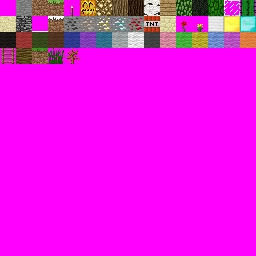
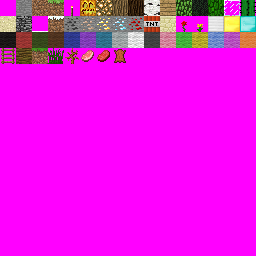
Added porkchops, beef, and leather for when the corresponding mob type is killed (and wool is added to inventory when sheep is killed)

Changed region(s): [[0.3125, 0.1875, 0.5, 0.25]]

diff --git a/MineDS/source/mobs/cowMob.cpp b/MineDS/source/mobs/cowMob.cpp
@@ -10,6 +10,7 @@
 #include "../message.h"
 #include "../sounds.h"
 #include "../collision.h"
+#include "../inventory.h"
 Graphic cowMobGraphic[2];
 
 cowMob::cowMob()
@@ -176,6 +177,11 @@ void cowMob::hurt(int amount,int type)
 	playSound(COW_H);
 	if (type == PLAYER_HURT)
 		scared = true;
+	if (health<=0 && type == PLAYER_HURT)
+	{
+		addInventory(BEEF_RAW,rand()%4);
+		addInventory(LEATHER,rand()%3);
+	}
 	animation=1;
 	animationclearframes=20;
 }

diff --git a/MineDS/source/mobs/sheepMob.cpp b/MineDS/source/mobs/sheepMob.cpp
@@ -10,6 +10,7 @@
 #include "../message.h"
 #include "../sounds.h"
 #include "../collision.h"
+#include "../inventory.h"
 Graphic sheepMobGraphic[2];
 
 sheepMob::sheepMob()
@@ -176,6 +177,10 @@ void sheepMob::hurt(int amount,int type)
 	playSound(SHEEP_H);
 	if (type == PLAYER_HURT)
 		scared = true;
+	if (health<=0 && type == PLAYER_HURT)
+	{
+		addInventory(WHITE_WOOL,rand()%4);
+	}
 	animation=1;
 	animationclearframes=20;
 }

diff --git a/MineDS/source/mobs/pigMob.cpp b/MineDS/source/mobs/pigMob.cpp
@@ -10,6 +10,7 @@
 #include "../blockID.h"
 #include "../message.h"
 #include "../collision.h"
+#include "../inventory.h"
 Graphic pigMobGraphic[2];
 
 pigMob::pigMob()
@@ -177,6 +178,10 @@ void pigMob::hurt(int amount,int type)
 	playSound(PIG_H);
 	if (type == PLAYER_HURT)
 		scared = true;
+	if (health<=0 && type == PLAYER_HURT)
+	{
+		addInventory(PORKCHOP_RAW,rand()%3);
+	}
 	animation=1;
 	animationclearframes=20;
 }

diff --git a/MineDS/source/inventory.cpp b/MineDS/source/inventory.cpp
@@ -28,6 +28,8 @@ bool addInventory(int blockID, int amount) //adds the specified amount to a bloc
 	int space=-1;
 	if (blockID == GRASS || blockID == JUNGLE_GRASS || blockID == SNOW_GRASS)
 		blockID = DIRT;
+	if (blockID==SNOW_TOP)
+		return false;
 	if (blockID==AIR) return false;
 	for (i=0;i<NUM_INV_SPACES;i++)
 	{

diff --git a/MineDS/source/blockID.h b/MineDS/source/blockID.h
@@ -61,3 +61,6 @@
 #define JUNGLE_GRASS 50
 #define TALL_GRASS 51
 #define SHRUB 52
+#define PORKCHOP_RAW 53
+#define BEEF_RAW 54
+#define LEATHER 55
